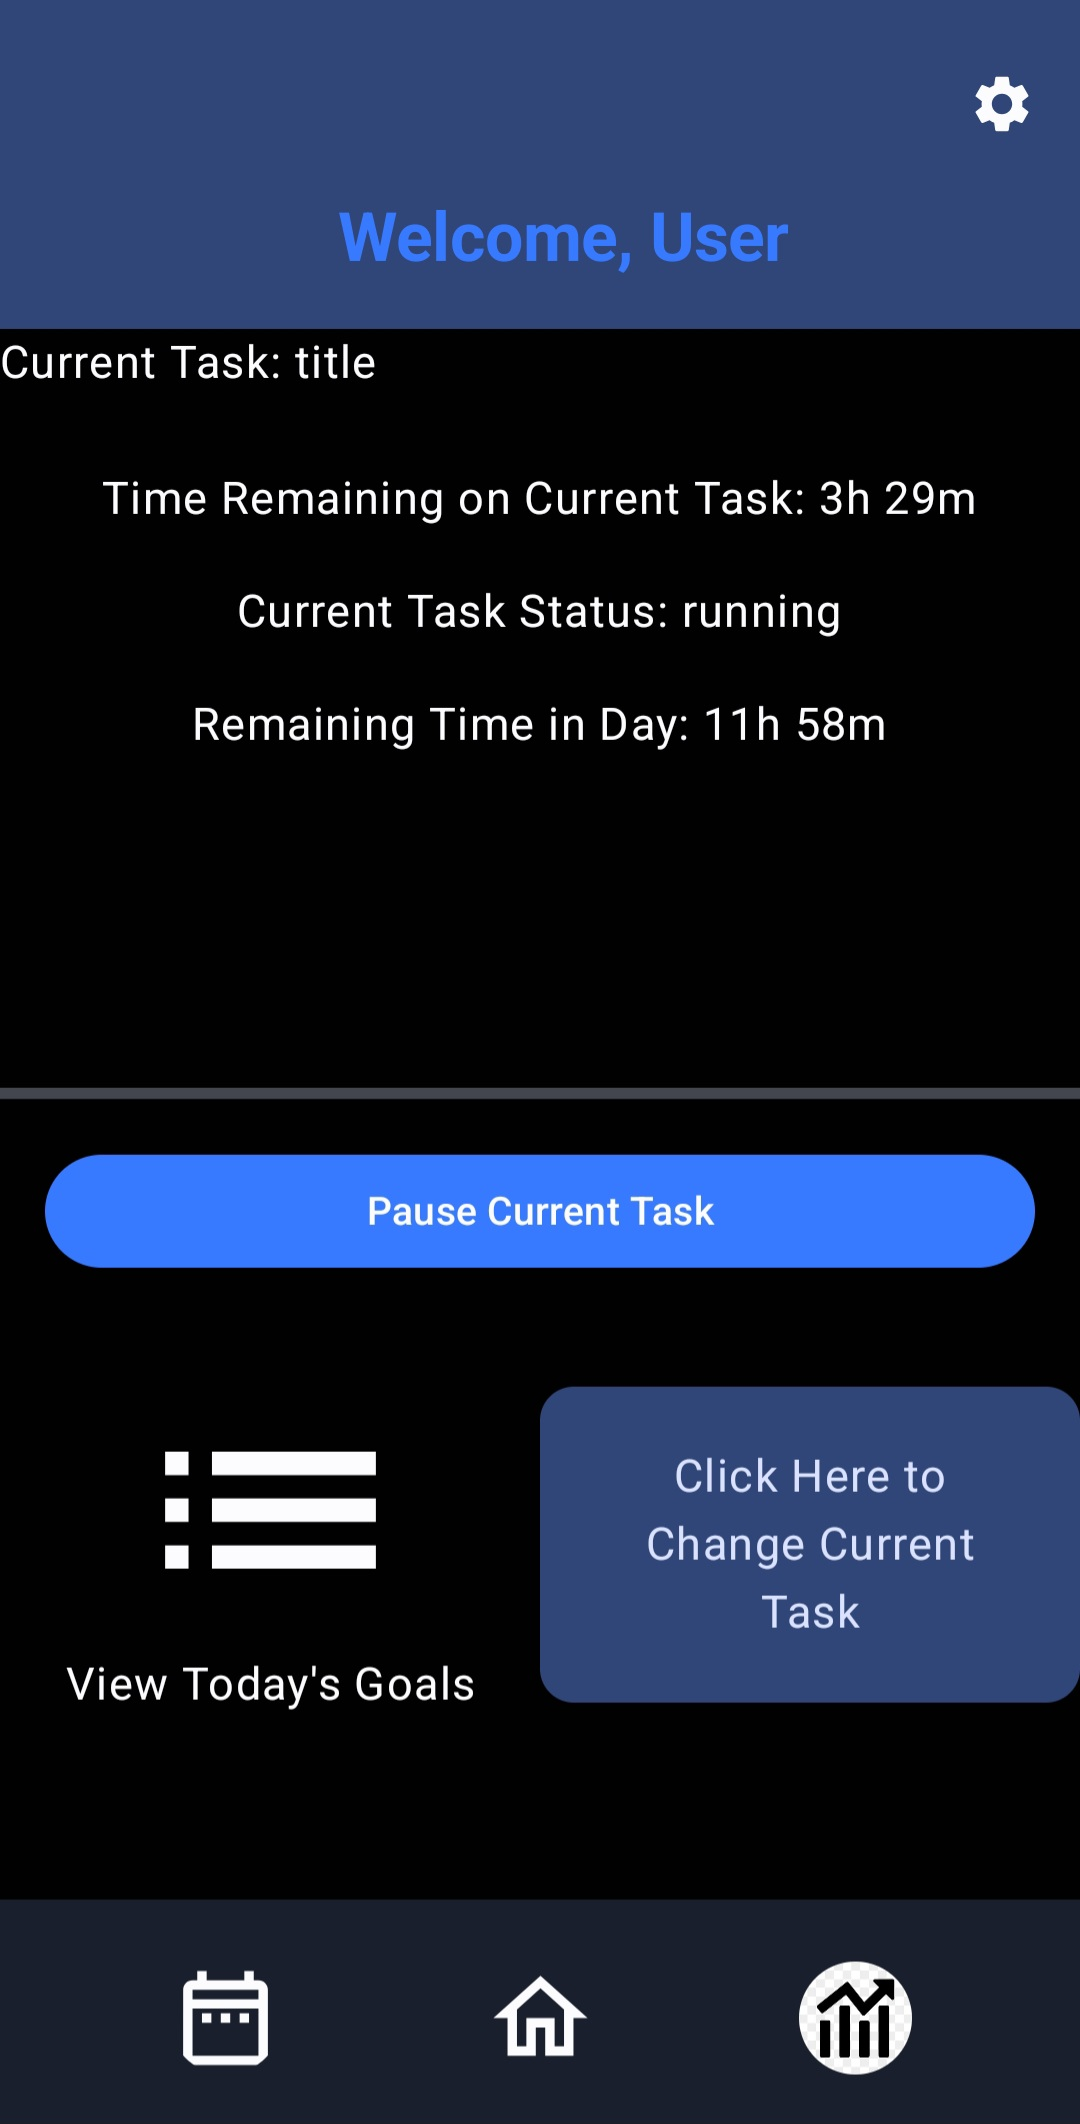
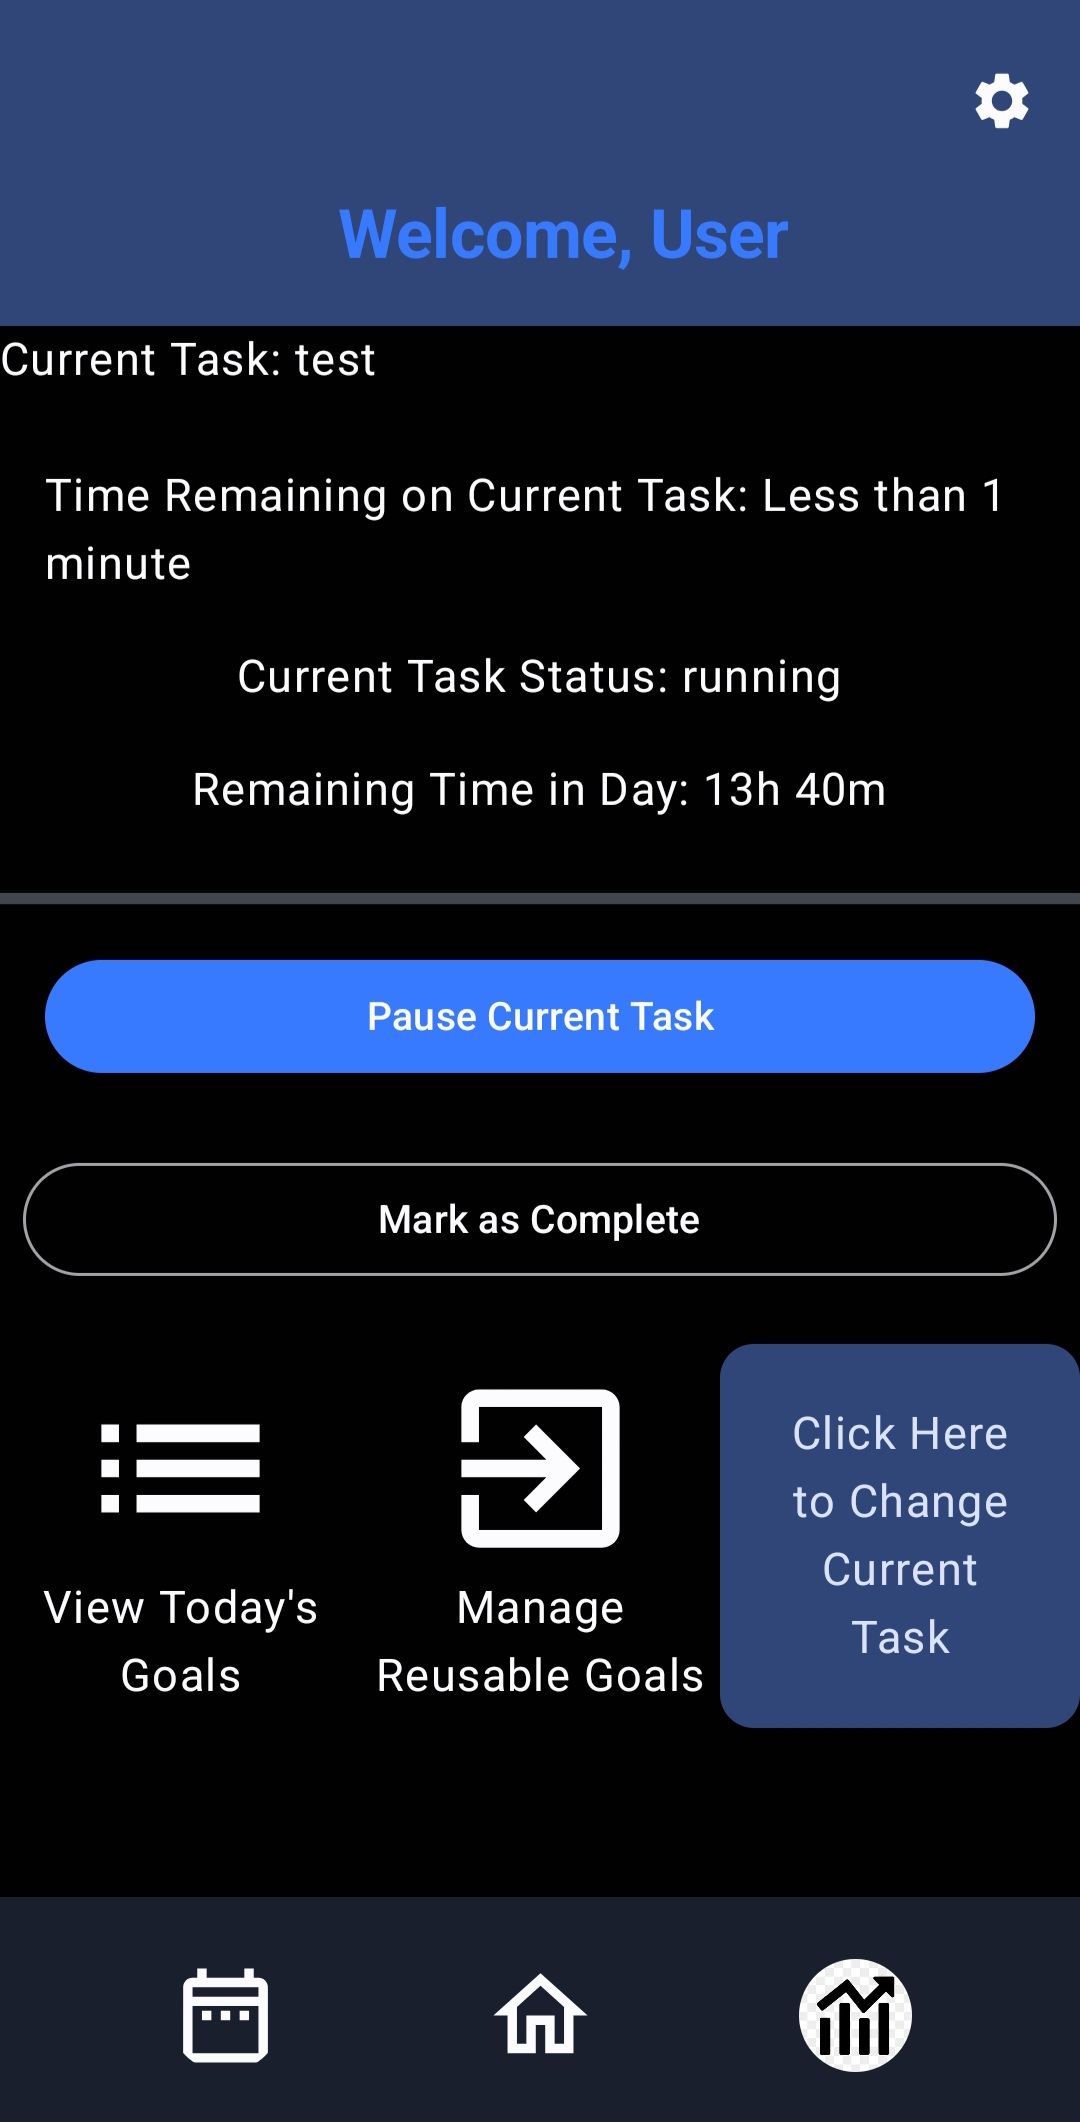
Refactored recurrence use case files and updated README.md.

diff --git a/app/src/main/java/com/example/timemanagementapp/ui/editReusable/EditReusableGoalViewModel.kt b/app/src/main/java/com/example/timemanagementapp/ui/editReusable/EditReusableGoalViewModel.kt
@@ -6,8 +6,8 @@ import androidx.compose.runtime.setValue
 import androidx.lifecycle.SavedStateHandle
 import androidx.lifecycle.ViewModel
 import androidx.lifecycle.viewModelScope
-import com.example.timemanagementapp.data.CreateRecurrenceUseCase
-import com.example.timemanagementapp.data.UpdateRecurrenceUseCase
+import com.example.timemanagementapp.data.goal.recurrence.CreateRecurrenceUseCase
+import com.example.timemanagementapp.data.goal.recurrence.UpdateRecurrenceUseCase
 import com.example.timemanagementapp.data.goal.GoalsRepository
 import com.example.timemanagementapp.data.goal.recurrence.RecurrenceRule
 import com.example.timemanagementapp.data.scheduledgoal.ScheduledGoalsRepository

diff --git a/app/src/main/java/com/example/timemanagementapp/data/AppContainer.kt b/app/src/main/java/com/example/timemanagementapp/data/AppContainer.kt
@@ -12,6 +12,8 @@ import com.example.timemanagementapp.data.calendar.OfflineCalendarEventsReposito
 import com.example.timemanagementapp.data.goal.GoalsDatabase
 import com.example.timemanagementapp.data.goal.GoalsRepository
 import com.example.timemanagementapp.data.goal.OfflineGoalsRepository
+import com.example.timemanagementapp.data.goal.recurrence.CreateRecurrenceUseCase
+import com.example.timemanagementapp.data.goal.recurrence.UpdateRecurrenceUseCase
 import com.example.timemanagementapp.data.scheduledgoal.OfflineScheduledGoalsRepository
 import com.example.timemanagementapp.data.scheduledgoal.ScheduledGoalsRepository
 

diff --git a/app/src/main/java/com/example/timemanagementapp/ui/createGoal/CreateGoalViewModel.kt b/app/src/main/java/com/example/timemanagementapp/ui/createGoal/CreateGoalViewModel.kt
@@ -7,7 +7,7 @@ import androidx.lifecycle.SavedStateHandle
 import androidx.lifecycle.ViewModel
 import androidx.lifecycle.viewModelScope
 import com.example.timemanagementapp.R
-import com.example.timemanagementapp.data.CreateRecurrenceUseCase
+import com.example.timemanagementapp.data.goal.recurrence.CreateRecurrenceUseCase
 import com.example.timemanagementapp.data.calendar.CalendarEventsRepository
 import com.example.timemanagementapp.data.goal.Goal
 import com.example.timemanagementapp.data.goal.GoalsRepository

diff --git a/app/src/main/java/com/example/timemanagementapp/data/goal/recurrence/CreateRecurrenceUseCase.kt b/app/src/main/java/com/example/timemanagementapp/data/goal/recurrence/CreateRecurrenceUseCase.kt
@@ -1,8 +1,7 @@
-package com.example.timemanagementapp.data
+package com.example.timemanagementapp.data.goal.recurrence
 
 import com.example.timemanagementapp.data.goal.Goal
 import com.example.timemanagementapp.data.goal.GoalsRepository
-import com.example.timemanagementapp.data.goal.recurrence.RecurrenceRule
 import com.example.timemanagementapp.data.scheduledgoal.ScheduledGoalsRepository
 import java.time.DayOfWeek
 import java.time.LocalDate

diff --git a/app/src/main/java/com/example/timemanagementapp/data/goal/recurrence/UpdateRecurrenceUseCase.kt b/app/src/main/java/com/example/timemanagementapp/data/goal/recurrence/UpdateRecurrenceUseCase.kt
@@ -1,7 +1,6 @@
-package com.example.timemanagementapp.data
+package com.example.timemanagementapp.data.goal.recurrence
 
 import com.example.timemanagementapp.data.goal.GoalsRepository
-import com.example.timemanagementapp.data.goal.recurrence.RecurrenceRule
 import com.example.timemanagementapp.data.scheduledgoal.ScheduledGoalsRepository
 import java.time.DayOfWeek
 import java.time.LocalDate

diff --git a/README.md b/README.md
@@ -17,6 +17,7 @@ Have you ever found yourself wondering where all your time went? It's easy to sp
 - Edit scheduled goals
 - Delete scheduled goals
 - Schedule goals for specific dates
+- Schedule/edit recurring goals
 - Analytics Dashboard
 - View daily schedule
 - Navigate between days
@@ -29,9 +30,9 @@ Have you ever found yourself wondering where all your time went? It's easy to sp
 ### Planned Features
 
 - [ ] Custom themes
+- [ ] Current task expiration
 - [ ] Notifications & reminders
 - [ ] Goal completion history
-- [ ] Recurring goals
 - [ ] Cloud backup
 
 ---
@@ -46,9 +47,9 @@ Have you ever found yourself wondering where all your time went? It's easy to sp
 |----------------------------------------|---------------------------------|
 | ![View Goals Screen](images/view_goals_screen.jpg) | ![Edit Goals Screen](images/edit_goals_screen.jpg) |
 
-| Create Goal                            | Current Task                    |
+| Create Goal                            | Create Recurring Goal                    |
 |----------------------------------------|---------------------------------|
-| ![Create Goal Screen](images/create_goal_screen.jpg) | ![Current Task Screen](images/current_task_screen.jpg) |
+| ![Create Goal Screen](images/create_goal_screen.jpg) | ![Current Task Screen](images/create_recurring_goal.jpg) |
 
 | Analytics Part 1                       | Analytics Part 2                |
 |----------------------------------------|---------------------------------|
@@ -62,9 +63,13 @@ Have you ever found yourself wondering where all your time went? It's easy to sp
 ## Analytics Demo
 ![Timely Analytics Demo GIF](images/timely_analytics_demo.gif)
 
-Link To Full Demo Video
+### Link To Full Demo Video
 [Timely Demo Video (Youtube)](https://youtu.be/0Wy609OTCPI)
----
+
+### Link To Recurring Goals Demo Video
+[Timely Recurring Goals Demo (Youtube)](https://youtu.be/PaSeEHSdMRw)
+
+
 
 ## 🛠 Built With
 
@@ -108,6 +113,7 @@ app/src/main/java/com/example/timemanagementapp
 │   ├── analytics/
 │   ├── calendar/
 │   └── goal/
+│       └── recurrence/
 │   └── scheduledgoal/
 │   └── AppContainer.kt
 │   └── Converters.kt
@@ -144,13 +150,13 @@ app/src/main/java/com/example/timemanagementapp
 ├── TimelyApp.kt
 └── TimelyApplication.kt 
 ```
-* **data/** - Contains Room entities, DAOs, repositories, alarm logic, dependency providers, and user .preferences
+* **data/** - Contains Room entities, DAOs, repositories, alarm logic, dependency providers, and user preferences.
 
 * **receiver/** - Contains Android broadcast receivers used for current task alarm events.
 
 * **ui/** - Contains Jetpack Compose Screens, reusable composable components, ViewModels, navigation, and theme components.
 
-* **util/** - Contains shared utility functions and helper classes
+* **util/** - Contains shared utility functions and helper classes.
 
 * **MainActivity.kt** - Hosts the Compose application.
 
@@ -204,16 +210,16 @@ Open the project in Android Studio and run it on an emulator or Android device.
 - [x] Remaining time calculation
 - [x] Navigation between screens
 - [x] Analytics page
+- [x] Recurring goals
 
 ### 🚧 In Progress
 
-- [ ] Goal completion history 
+- [ ] Notification reminders  
 
 ### 📅 Planned
 
 - [ ] Custom themes
 - [ ] Notification reminders
-- [ ] Recurring goals
 - [ ] Goal completion history
 - [ ] Cloud sync & backup
 
